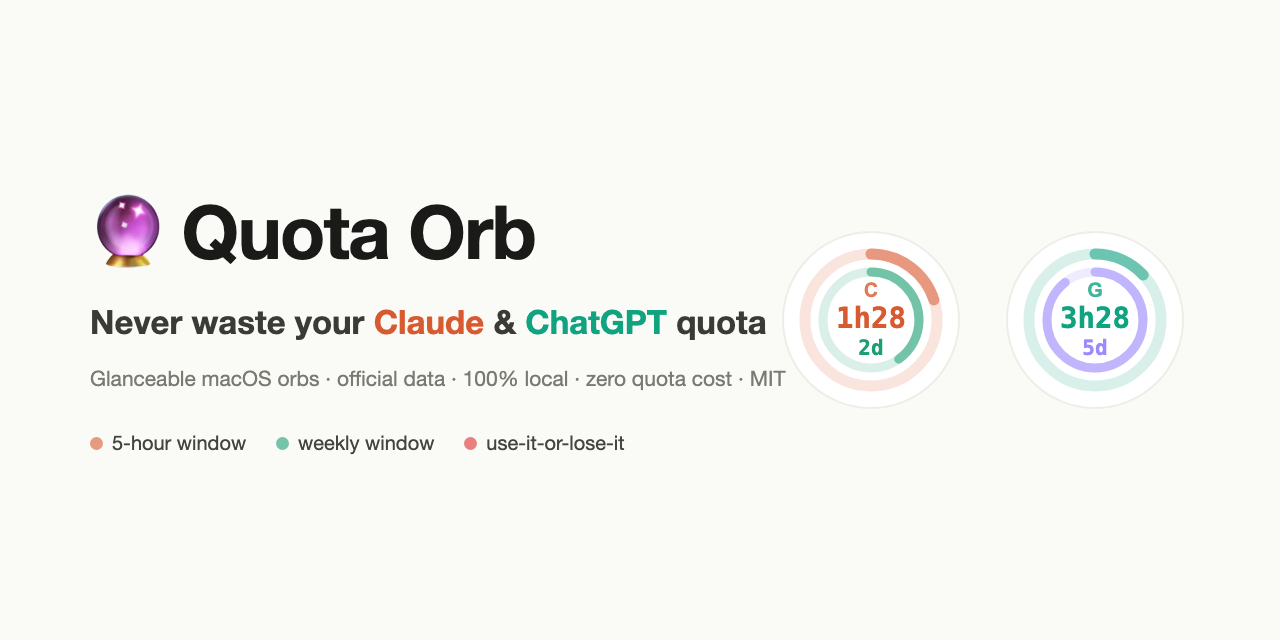
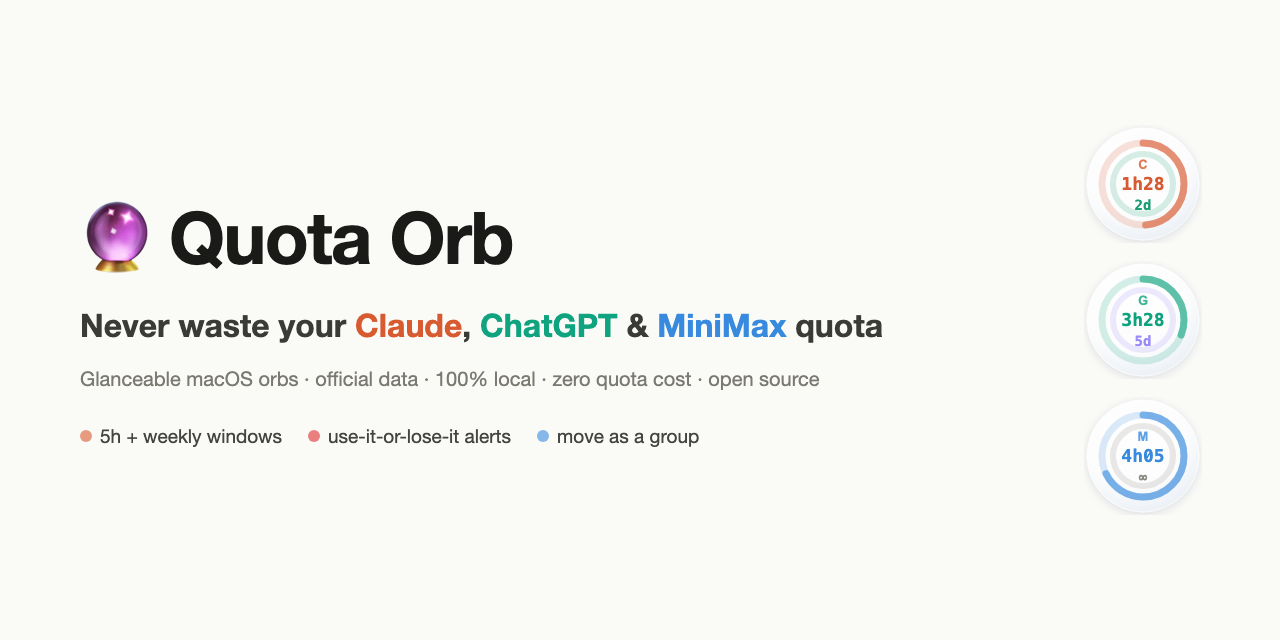
docs: 三家版 README + 招 star 文案 + 三球封面/social 图
- README 升级为 Claude/ChatGPT/MiniMax 三家，强化痛点开场、隐私信任、star CTA
- 新功能写入：三球联动、横竖排、水晶 UI、多屏稳定
- hero.svg / social-preview.png 重做为三颗水晶球
- 中英 README 同步

diff --git a/README.md b/README.md
@@ -2,16 +2,17 @@
 
 # 🔮 Quota Orb
 
-### Never waste your Claude & ChatGPT subscription quota again.
+### You pay for AI. Stop letting the quota evaporate.
 
-A tiny, glanceable floating orb for macOS that shows your **AI subscription limits** in real time — so you burn the quota you'd otherwise lose, and never hit the wall mid-task by surprise.
+Tiny, glassy floating orbs for macOS that show your **Claude · ChatGPT · MiniMax** limits in real time — so you spend the quota you'd otherwise waste, and never slam into the wall mid-task again.
 
 ![Quota Orb](assets/hero.svg)
 
 [![Platform](https://img.shields.io/badge/platform-macOS-black?logo=apple)](https://github.com/xffighting/quota-orb)
-[![Language](https://img.shields.io/badge/Swift-AppKit-orange?logo=swift)](https://github.com/xffighting/quota-orb)
+[![Swift](https://img.shields.io/badge/Swift-AppKit-orange?logo=swift)](https://github.com/xffighting/quota-orb)
 [![License](https://img.shields.io/badge/license-MIT-blue)](LICENSE)
 [![PRs Welcome](https://img.shields.io/badge/PRs-welcome-brightgreen)](https://github.com/xffighting/quota-orb/pulls)
+[![Stars](https://img.shields.io/github/stars/xffighting/quota-orb?style=social)](https://github.com/xffighting/quota-orb/stargazers)
 
 **English** · [中文](README.zh-CN.md)
 
@@ -19,71 +20,76 @@ A tiny, glanceable floating orb for macOS that shows your **AI subscription limi
 
 ---
 
-## 💡 Why
+## 💸 The problem
 
-You pay for Claude Pro/Max and ChatGPT/Codex. But:
+You're paying for Claude Pro/Max, ChatGPT/Codex, a MiniMax coding plan. But:
 
-- Quota resets every **5 hours** and every **week** — whatever you don't use just **evaporates**. 💸
-- Or you're deep in a task and suddenly **hit the limit** with no warning.
+- Quota resets every **5 hours** and every **week** — whatever you don't use just **vanishes**.
+- Or you're deep in a flow and **hit the limit with zero warning**.
 
-Quota Orb puts both windows **on your screen, color-coded, always visible**. One glance tells you: *use it now, or save it for later, and which model still has room.*
+You're either **leaving money on the table** or **getting blindsided**. Quota Orb fixes both.
 
-## ✨ Features
+## ✨ What it does
 
-- **Dual-ring orb per provider** — outer ring = 5-hour window, inner ring = weekly window.
-- **Two countdowns, front and center** — color-matched to their rings. Know exactly when each resets.
-- **"Use-it-or-lose-it" alert** — the orb breathes **red** when lots of quota is about to reset, **amber** when you're under-using. Don't waste what you paid for.
-- **Click to jump** — click an orb to bring its app to front (Claude.app / Codex).
-- **Hover for detail** — exact reset times, usage %, and a one-line verdict.
-- **Official, real-time data** — read **100% locally**, costs **zero quota**.
-- **Bilingual** — UI auto-switches to English or 中文 based on your system language.
-- **Auto-start on login**, drag anywhere, remembers position.
+A small glass orb per provider, always on screen, color-coded so a single glance tells you everything:
 
-## 🔒 Privacy first
+- 🔵 **Dual rings** — outer = 5-hour window, inner = weekly window, each with its own live reset countdown.
+- 🔴 **Use-it-or-lose-it alerts** — the orb **breathes red** when lots of quota is about to reset, **amber** when you're under-using. Never waste what you paid for.
+- 🧲 **Move as a group** — drag any orb and all three follow. Snap to a side → they stack vertically; snap to top/bottom → they line up horizontally. Auto-arranged.
+- 💎 **Crystal UI** — frosted-glass spheres with a soft glow. Pretty enough to keep on screen all day.
+- 🖱️ **Click to jump** to the matching app (Claude.app / Codex); **hover** for exact reset times and a one-line verdict.
+- 🖥️ **Multi-monitor safe** — snaps, hides, and recovers correctly across displays. Lost an orb? Right-click → **Show all orbs**.
+- 🌍 **Bilingual** (English / 中文, auto by system language) · **auto-start on login**.
 
-This is the part that matters, because the tool reads your login state:
+## 🔒 Privacy — read this, then trust it
 
-- It reads **only your own local login** (Claude desktop's keychain entry, Codex's local session files) **on your own machine**.
-- It **sends nothing, anywhere**. No servers. No telemetry. No accounts.
-- It **never spends quota** — it reads usage metadata and local files, not the model.
-- It's **fully open source** — every line is right here. Read it before you run it.
+The tool reads your login state, so here's exactly what it does and doesn't do:
 
-## 🚀 Install
+- ✅ Reads **only your own local login** (Claude desktop's keychain entry, Codex's local session files, your browser's MiniMax cookie) — **on your machine, for your account.**
+- ✅ **Sends nothing, anywhere.** No servers. No telemetry. No account.
+- ✅ **Costs zero quota** — it reads usage metadata and local files, never the model.
+- ✅ **Fully open source** — every line is right here. Read it before you run it.
+- ✅ **Builds locally** — no signed binary, no "unidentified developer" wall, nothing you can't inspect.
+
+## 🚀 Install (one command)
 
 ```bash
 git clone https://github.com/xffighting/quota-orb.git
-cd quota-orb
-./install.sh
+cd quota-orb && ./install.sh
 ```
 
-`install.sh` checks dependencies, compiles on **your** machine (so no Gatekeeper "unidentified developer" wall), sets up auto-start, and launches. Uninstall anytime with `./uninstall.sh`.
+`install.sh` checks deps, compiles **on your machine**, sets up auto-start, and launches. Uninstall anytime with `./uninstall.sh`.
 
 **Requirements:** macOS · [Node.js](https://nodejs.org) · Xcode Command Line Tools (`xcode-select --install`)
 
 ## 🧩 How it works
 
-| Orb | Data source | Notes |
-|-----|-------------|-------|
-| **Claude** | Claude desktop login → official usage endpoint | Real-time. Needs Claude desktop signed in; otherwise falls back to a local-log estimate. |
-| **ChatGPT** | Codex CLI's official `rate_limits` (written to local session files) | Official snapshot from your last Codex run. |
+| Orb | Source | Notes |
+|-----|--------|-------|
+| **Claude** | Claude desktop login → official usage endpoint | Real-time. Falls back to a local-log estimate if not signed in. |
+| **ChatGPT** | Codex CLI's official `rate_limits` (local session files) | Official snapshot from your last Codex run. |
+| **MiniMax** | MiniMax coding-plan API via your browser session | Reads the 5-hour window; weekly shows ∞ (unlimited). Needs a MiniMax coding plan + browser login. |
 
-Each probe is a small, readable script (`*-probe.mjs` + `lib/*.py`). The orb itself is a single AppKit file (`QuotaOrb.swift`). Adding a provider is ~20 lines.
+Each probe is a small, readable script. The orb itself is a single AppKit file. Adding a provider is ~20 lines — **PRs for new providers are very welcome.**
 
-## 🗺️ Roadmap & contributing
+## 🗺️ Roadmap
 
-PRs very welcome — some good first issues:
-
-- [x] **Bilingual UI (English / 中文)** — auto-detects system language. ✅
-- [ ] More languages (日本語, Español, …) — see the `L(...)` helper in `QuotaOrb.swift`.
-- [ ] More providers (Gemini, MiniMax, Cursor, …) — the architecture is provider-pluggable.
-- [ ] Menu-bar mode as an alternative to the floating orb.
-- [ ] Configurable thresholds & refresh interval via a settings file.
+- [x] Bilingual UI (English / 中文)
+- [x] Group movement + auto horizontal/vertical layout
+- [x] Multi-monitor robustness
+- [ ] More providers (Gemini, Cursor, Copilot…) — the architecture is provider-pluggable
+- [ ] Menu-bar mode
+- [ ] More languages (日本語, Español…)
 
 Found a bug or want a provider? [Open an issue](https://github.com/xffighting/quota-orb/issues).
 
+## ⭐ Like it?
+
+If Quota Orb saves you from one wasted reset or one surprise limit, **drop a star** — it's the only "quota" this project runs on, and it helps other people find it.
+
 ## 📄 License
 
-MIT — do whatever you like. If it saves you some quota, a ⭐ is appreciated.
+MIT — do whatever you like.
 
 <div align="center">
 <sub>Built for people who hate watching paid quota expire.</sub>

diff --git a/README.zh-CN.md b/README.zh-CN.md
@@ -2,16 +2,17 @@
 
 # 🔮 Quota Orb
 
-### 别再让花钱买的 Claude / ChatGPT 额度白白过期。
+### 花钱买的 AI 额度，别再让它白白蒸发。
 
-一个 macOS 桌面悬浮球，**实时**显示你的 AI 订阅额度——把不用就浪费的额度用起来，也不再干到一半突然撞限额。
+macOS 上几颗晶莹的悬浮球，实时显示 **Claude · ChatGPT · MiniMax** 的额度——把不用就过期的额度用起来，也不再干到一半突然撞限额。
 
 ![Quota Orb](assets/hero.svg)
 
 [![Platform](https://img.shields.io/badge/platform-macOS-black?logo=apple)](https://github.com/xffighting/quota-orb)
-[![Language](https://img.shields.io/badge/Swift-AppKit-orange?logo=swift)](https://github.com/xffighting/quota-orb)
+[![Swift](https://img.shields.io/badge/Swift-AppKit-orange?logo=swift)](https://github.com/xffighting/quota-orb)
 [![License](https://img.shields.io/badge/license-MIT-blue)](LICENSE)
 [![PRs Welcome](https://img.shields.io/badge/PRs-welcome-brightgreen)](https://github.com/xffighting/quota-orb/pulls)
+[![Stars](https://img.shields.io/github/stars/xffighting/quota-orb?style=social)](https://github.com/xffighting/quota-orb/stargazers)
 
 [English](README.md) · **中文**
 
@@ -19,71 +20,76 @@
 
 ---
 
-## 💡 为什么做它
+## 💸 痛点
 
-你开了 Claude Pro/Max、ChatGPT/Codex 订阅，但是：
+你开了 Claude Pro/Max、ChatGPT/Codex、MiniMax Coding Plan。可是：
 
-- 额度每 **5 小时**、每 **周** 重置，**没用掉的就蒸发了** 💸；
+- 额度每 **5 小时**、每 **周** 重置，**没用掉的就蒸发了**；
 - 或者正干在兴头上，**毫无预警地撞到限额**。
 
-Quota Orb 把这两个窗口**常驻屏幕、颜色编码、一眼可见**。瞄一眼就知道：*现在该用还是该省，以及哪个模型还有余量。*
+要么**白白浪费钱**，要么**被突然卡住**。Quota Orb 两个都治。
 
-## ✨ 功能
+## ✨ 它能做什么
 
-- **每家一颗双环球** —— 外环 = 5 小时窗口，内环 = 周窗口。
-- **两个倒计时摆在正中** —— 颜色与圆环对应，几点重置清清楚楚。
-- **「用不完就浪费」提醒** —— 大量额度即将重置时球**呼吸变红**，用得太慢时变**琥珀**。别浪费你付过钱的额度。
-- **点击直达** —— 单击球唤起/切换到对应应用（Claude.app / Codex）。
-- **悬停看详情** —— 精确重置时间、已用百分比、一句话建议。
-- **官方实时数据** —— **100% 本地读取**，**零额度消耗**。
-- **双语** —— 按系统语言自动切换中 / 英。
-- **开机自启**，随意拖动、记住位置。
+每家一颗玻璃小球，常驻屏幕、颜色编码，瞄一眼全知道：
 
-## 🔒 隐私优先
+- 🔵 **双环** —— 外环 = 5 小时窗口，内环 = 周窗口，各带实时重置倒计时。
+- 🔴 **「用不完就浪费」提醒** —— 大量额度即将重置时球**呼吸变红**，用得太慢时变**琥珀**。别浪费付过钱的额度。
+- 🧲 **三球联动** —— 拖任意一颗，三颗一起动。贴到左右边自动**竖排**，贴到上下边自动**横排**。
+- 💎 **水晶质感** —— 磨砂玻璃珠 + 柔光高光，常驻屏幕也好看。
+- 🖱️ **点击直达** 对应应用（Claude.app / Codex）；**悬停**看精确重置时间和一句话建议。
+- 🖥️ **多屏稳定** —— 跨屏吸附、隐藏、找回都正确。球丢了？右键 → **找回所有球**。
+- 🌍 **双语**（按系统语言自动中/英）· **开机自启**。
 
-这点很关键，因为工具要读你的登录态：
+## 🔒 隐私 —— 看完就放心
 
-- 它**只读你自己机器上、你自己的本地登录态**（Claude 桌面版的钥匙串条目、Codex 的本地会话文件）。
-- 它**不向任何地方发送任何东西**。没有服务器、没有埋点、不需要账号。
-- 它**从不消耗额度** —— 读的是用量元数据和本地文件，不调用模型。
-- 它**完全开源** —— 每一行都在这里，跑之前可以自己审。
+工具要读你的登录态，把话说清楚：
 
-## 🚀 安装
+- ✅ **只读你自己机器上、你自己的本地登录态**（Claude 桌面版钥匙串、Codex 本地会话文件、浏览器里的 MiniMax cookie）。
+- ✅ **不向任何地方发送任何东西**。没有服务器、没有埋点、不需要账号。
+- ✅ **从不消耗额度** —— 读的是用量元数据和本地文件，不调用模型。
+- ✅ **完全开源** —— 每一行都在这里，跑之前可以自己审。
+- ✅ **本机编译** —— 不是别人签名的二进制，没有「身份不明的开发者」拦截。
+
+## 🚀 安装（一行命令）
 
 ```bash
 git clone https://github.com/xffighting/quota-orb.git
-cd quota-orb
-./install.sh
+cd quota-orb && ./install.sh
 ```
 
-`install.sh` 会检查依赖、在**你自己机器上**编译（所以不会有 Gatekeeper「身份不明的开发者」拦截）、设好开机自启并启动。随时 `./uninstall.sh` 卸载。
+`install.sh` 自动检查依赖、在**你自己机器上**编译、设好开机自启并启动。随时 `./uninstall.sh` 卸载。
 
 **环境要求：** macOS · [Node.js](https://nodejs.org) · Xcode 命令行工具（`xcode-select --install`）
 
 ## 🧩 工作原理
 
 | 球 | 数据源 | 说明 |
-|-----|-------------|-------|
-| **Claude** | Claude 桌面版登录态 → 官方用量接口 | 实时。需桌面版已登录；否则退回本地日志估算。 |
-| **ChatGPT** | Codex CLI 写入本地会话文件的官方 `rate_limits` | 你上次跑 Codex 时的官方快照。 |
+|----|--------|------|
+| **Claude** | Claude 桌面版登录态 → 官方用量接口 | 实时。未登录则退回本地日志估算。 |
+| **ChatGPT** | Codex CLI 本地会话文件里的官方 `rate_limits` | 你上次跑 Codex 时的官方快照。 |
+| **MiniMax** | 浏览器登录态 → Coding Plan 接口 | 读 5 小时窗口，周窗口无限显示 ∞。需 MiniMax coding plan + 浏览器登录。 |
 
-每个探针都是一小段可读脚本（`*-probe.mjs` + `lib/*.py`）。悬浮球本体是单个 AppKit 文件（`QuotaOrb.swift`）。新增一家约 20 行。
+每个探针都是一小段可读脚本，悬浮球本体是单个 AppKit 文件。新增一家约 20 行——**欢迎 PR 加更多 provider。**
 
-## 🗺️ 路线图 & 贡献
+## 🗺️ 路线图
 
-非常欢迎 PR，几个适合上手的：
-
-- [x] **双语 UI（中 / 英）** —— 自动识别系统语言。✅
-- [ ] 更多语言（日本語、Español…） —— 看 `QuotaOrb.swift` 里的 `L(...)` helper。
-- [ ] 更多 provider（Gemini、MiniMax、Cursor…） —— 架构是 provider 可插拔的。
-- [ ] 菜单栏模式，作为悬浮球之外的另一种形态。
-- [ ] 用配置文件自定义阈值与刷新间隔。
+- [x] 双语 UI（中 / 英）
+- [x] 三球联动 + 横竖排自动布局
+- [x] 多屏稳定
+- [ ] 更多 provider（Gemini、Cursor、Copilot…）
+- [ ] 菜单栏模式
+- [ ] 更多语言（日本語、Español…）
 
 发现 bug 或想加某家？[提个 issue](https://github.com/xffighting/quota-orb/issues)。
 
+## ⭐ 喜欢的话
+
+如果 Quota Orb 帮你省下哪怕一次浪费的额度、躲过一次突然的限额，**点个 star** 吧——这是本项目唯一的「额度」，也能帮更多人发现它。
+
 ## 📄 许可
 
-MIT —— 随便用。如果它帮你省下了额度，点个 ⭐ 就很感激了。
+MIT，随便用。
 
 <div align="center">
 <sub>献给见不得花钱买的额度白白过期的人。</sub>